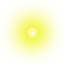
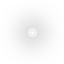
Switched some shader variables to constants on Fillrate, since that's how they where being used anyway . . .

diff --git a/src/FillrateNomNomNom/FillrateNomNomNom.cpp b/src/FillrateNomNomNom/FillrateNomNomNom.cpp
@@ -27,8 +27,9 @@ using namespace std;
 
 struct Light
 {
-    Light() { Position = Vec3f(0, 0, 0); Strength = 0; }
-    Light(Vec3f position, float strength) { Position = position; Strength = strength; }
+    Light() : Position(Vec3f(0, 0, 0)), Strength(1) { }
+    Light(Vec3f position) : Position(position), Strength(1) { }
+    Light(Vec3f position, float strength) : Position(position), Strength(strength) { }
 
     Vec3f Position;
     float Strength;
@@ -140,7 +141,7 @@ void FillrateNomNomNom::update()
         if (lights_.size() > 3)
             lights_.pop_back();
 
-        lights_.push_front(Light(attractor->Position, 0.5));
+        lights_.push_front(Light(attractor->Position));
     }
 
     for (deque<Light>::iterator iter = lights_.begin(); iter != lights_.end(); iter ++)
@@ -205,19 +206,14 @@ void FillrateNomNomNom::draw()
     {
         stringstream posName;
         posName << "lightPos" << i;
-        stringstream strName;
-        strName << "lightStr" << i;
-        string foo = strName.str();
         if (iter != lights_.end())
         {
             program_.uniform(posName.str(), (*iter).Position);
-            program_.uniform(strName.str(), (*iter).Strength); 
             iter ++;
         }
         else
         {
             program_.uniform(posName.str(), Vec3f());
-            program_.uniform(strName.str(), 0); 
         }
     }
 
